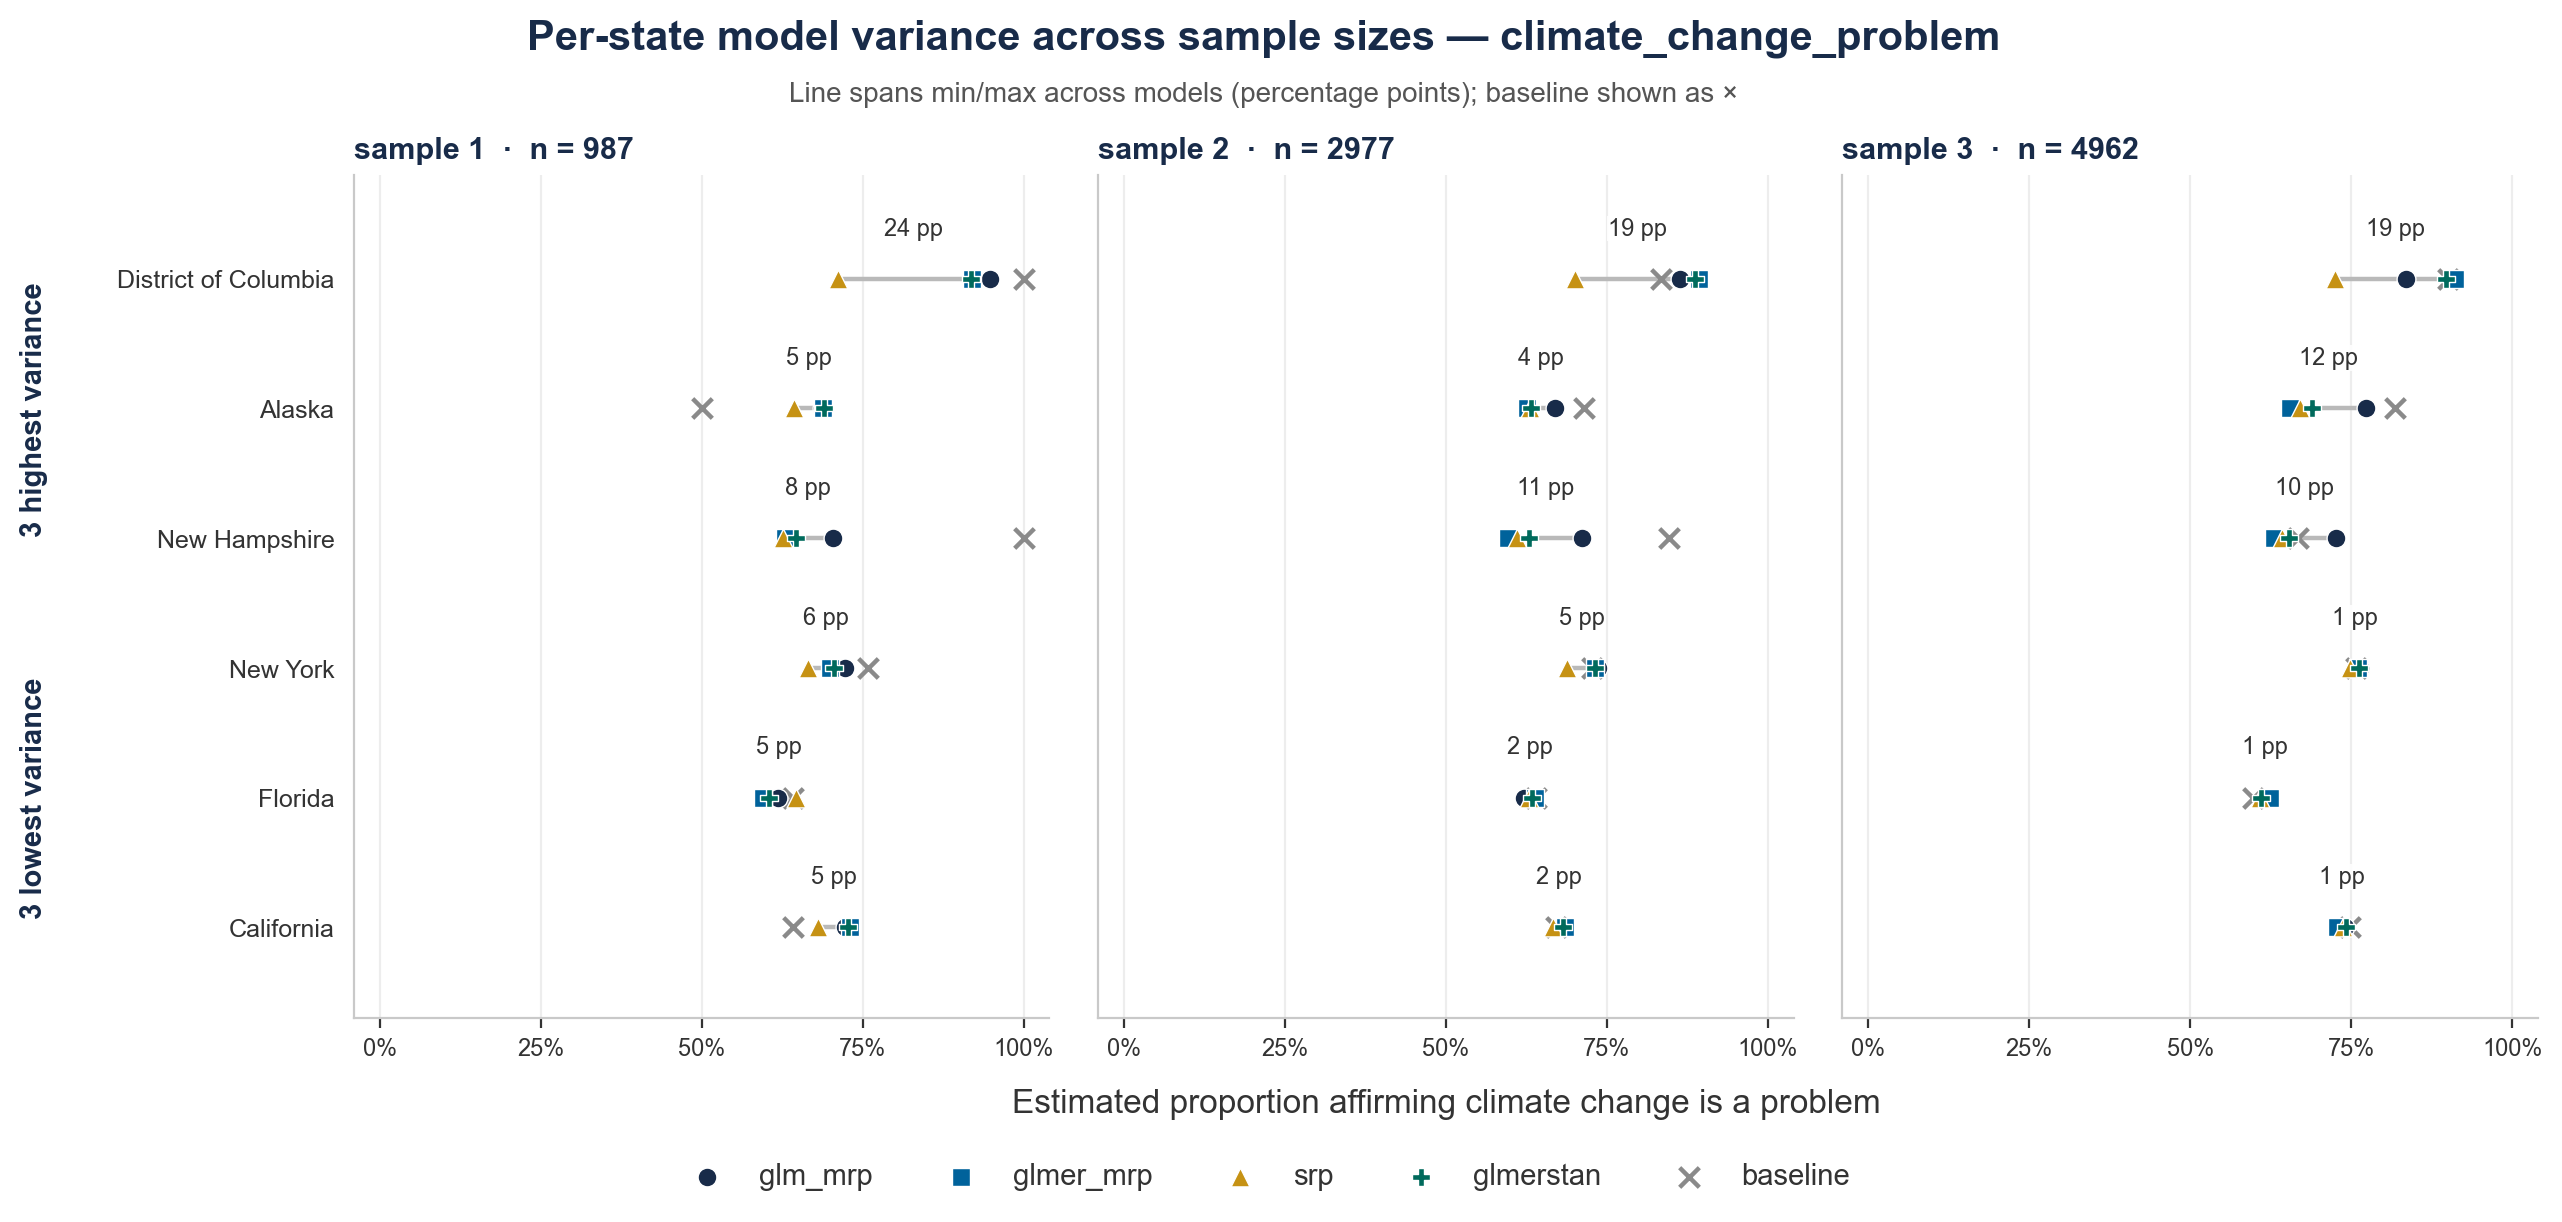
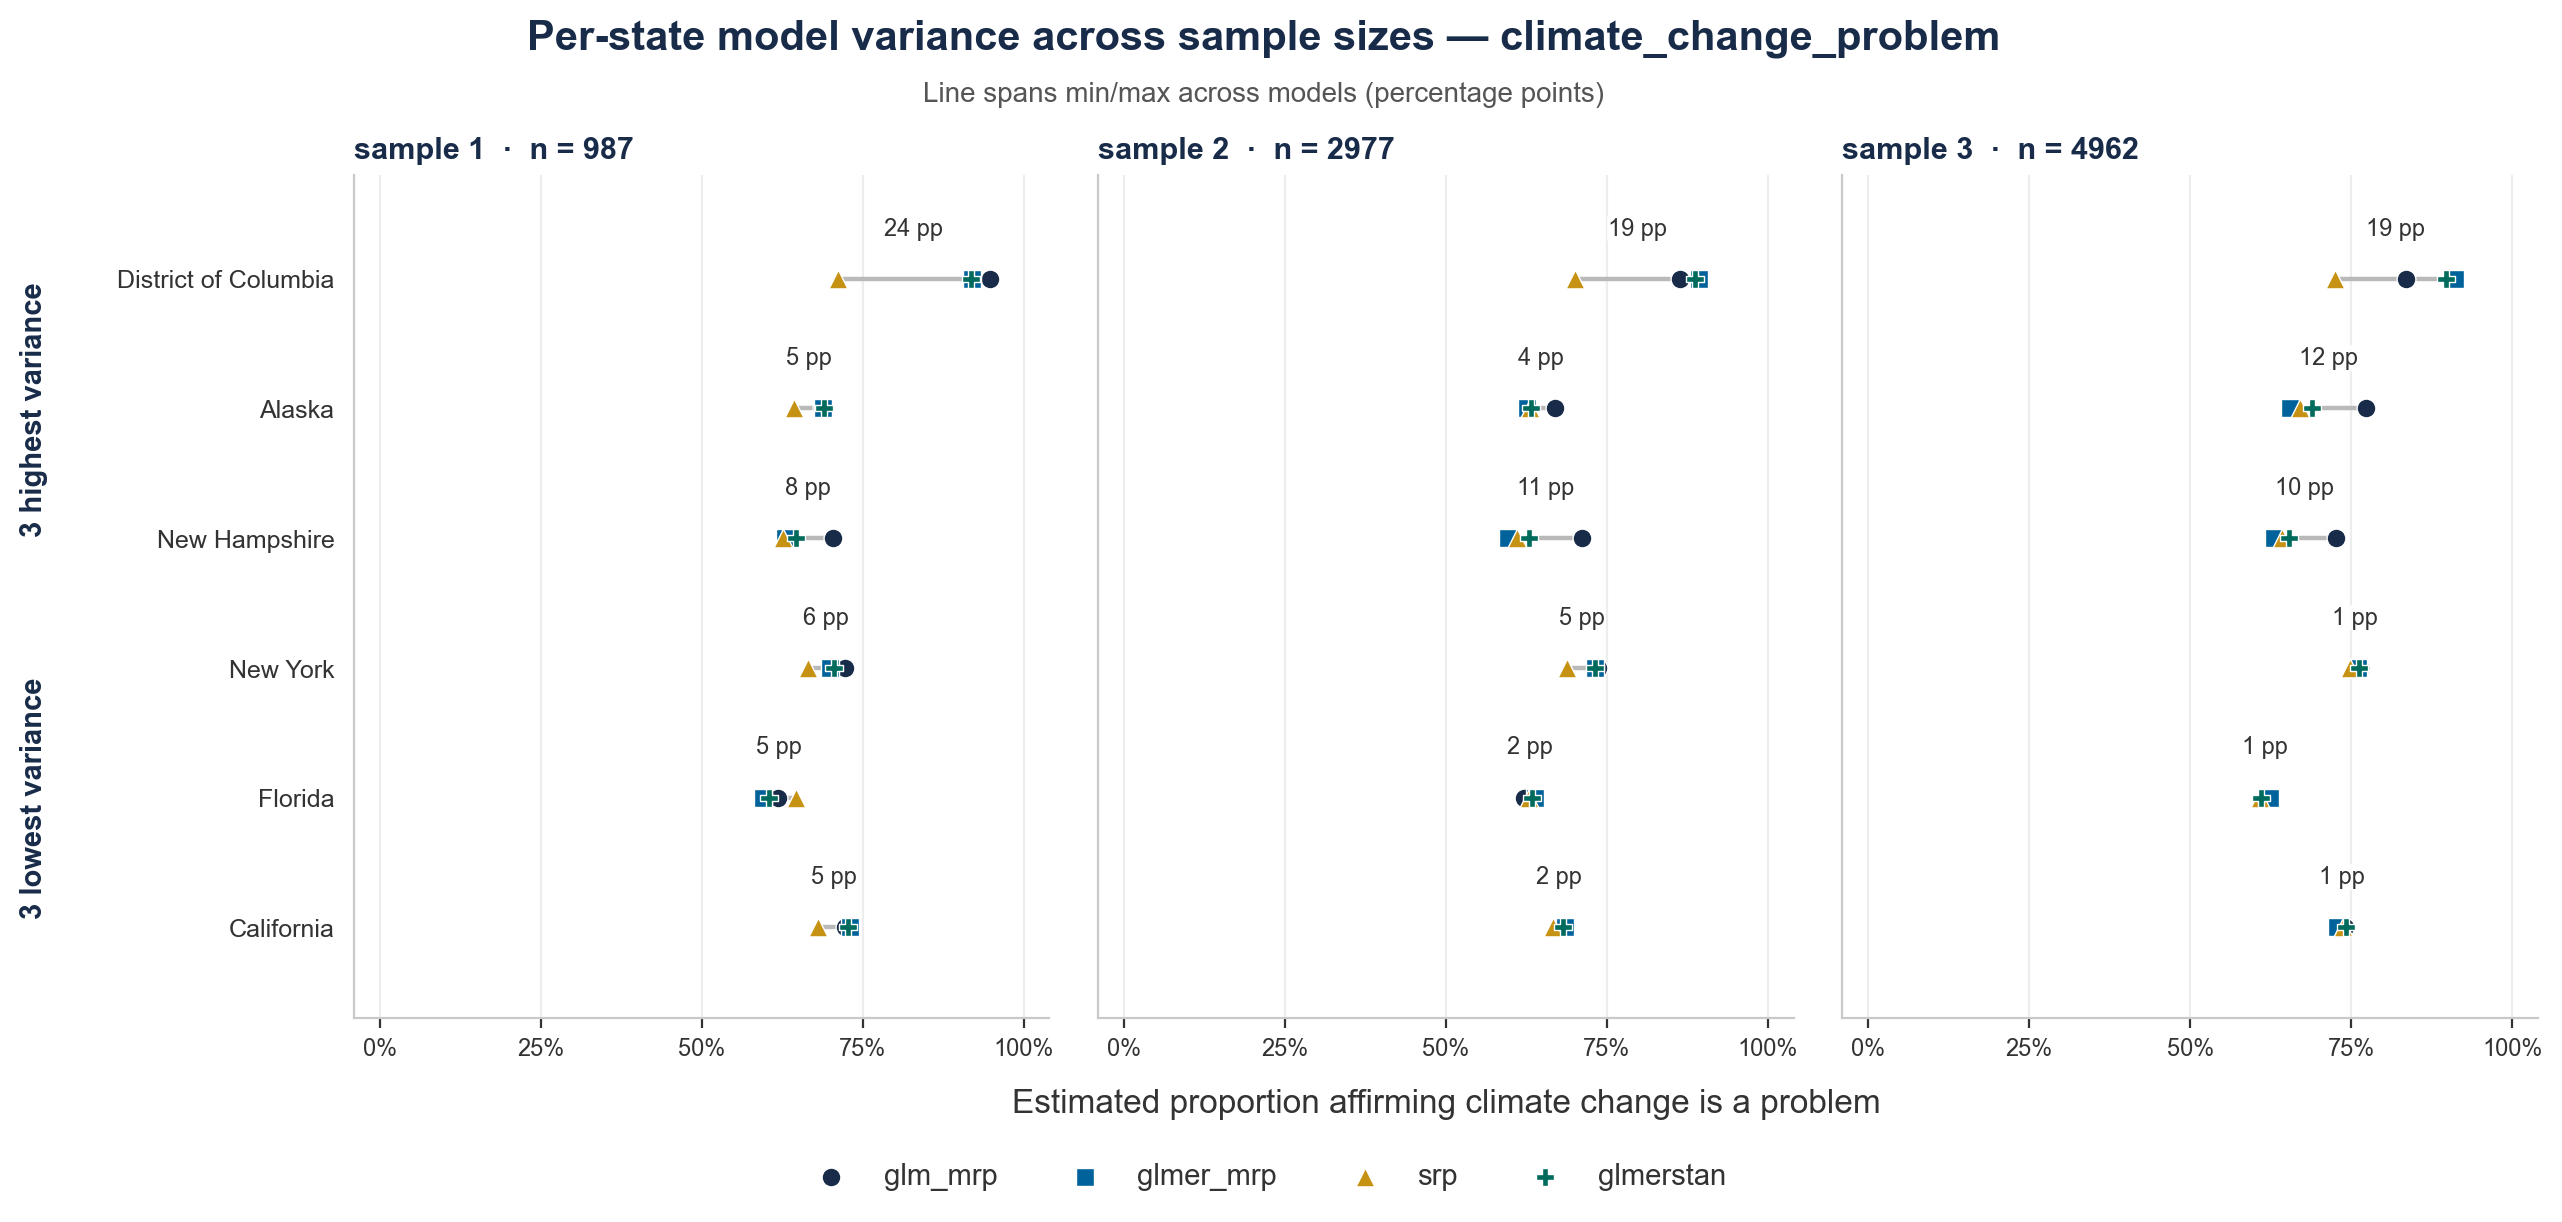
more visuals
all sample comparison

Changed region(s): [[0.3123, 0.0622, 0.687, 0.0933], [0.3123, 0.9329, 0.4996, 0.9951], [0.5621, 0.9329, 0.7182, 0.9951]]

diff --git a/model_run_ces/figures/Figures Using/make_poster_mae_figure.py b/model_run_ces/figures/Figures Using/make_poster_mae_figure.py
@@ -1,0 +1,203 @@
+"""
+Poster figure: mean absolute difference between each sample's per-model state
+estimates and the all-sample benchmark, styled to match the UC San Diego capstone
+poster (variable: climate_change_problem). This is FIG 1 on the poster.
+
+Drops the Naive baseline and MRdeeP panels — keeps the four MRP architectures
+(GLM-MRP, GLMER-MRP, GLMER-Stan, SRP) in a 2x2 grid. Standalone — produces exactly
+one PNG next to this script. Reads estimates from the MAIN project folder via an
+absolute ROOT (never a worktree copy), per the project's data-location guardrail.
+
+Output: mae_vs_all_sample_climate_change_problem.png (this folder)
+"""
+
+from pathlib import Path
+
+import matplotlib.pyplot as plt
+import pandas as pd
+
+# ---------- Absolute paths (main folder, not worktree) ----------
+PROJECT_ROOT = Path("/Users/kaeleyoshea/Capstone/A.MRdeeP-Deep-Learning--MRP")
+MODEL_ROOT = PROJECT_ROOT / "model_run_ces"
+OUT_DIR = MODEL_ROOT / "figures" / "Figures Using"
+OUT_PNG = OUT_DIR / "mae_vs_all_sample_climate_change_problem.png"
+
+SAMPLES = [1, 2, 3]
+OUTCOME = "climate_problem"                  # data-file key (unchanged on disk)
+OUTCOME_TITLE = "climate_change_problem"     # display name in title
+
+# Baseline and MRdeeP intentionally removed for the poster.
+MODELS = ["glm_mrp", "glmer_mrp", "glmerstan", "srp"]
+MODEL_LABELS = {
+    "glm_mrp":   "GLM-MRP",
+    "glmer_mrp": "GLMER-MRP",
+    "glmerstan": "GLMER-Stan",
+    "srp":       "SRP",
+}
+
+# ---------- UC San Diego palette ----------
+UCSD_NAVY = "#182B49"
+UCSD_BLUE = "#00629B"     # California blue
+UCSD_GOLD = "#C69214"     # darker gold for contrast on white
+GRID = "#EDEDED"
+LABEL_GRAY = "#333333"
+MUTED_GRAY = "#8A8A8A"    # worst-performer badge
+
+# Light -> dark sample ramp drawn from the UC San Diego blues.
+SAMPLE_COLORS = ["#A3C7DE", "#00629B", "#182B49"]
+
+plt.rcParams["font.family"] = "Arial"
+plt.rcParams["axes.unicode_minus"] = False
+
+
+def load_benchmark() -> pd.DataFrame:
+    path = MODEL_ROOT / "all_sample" / "outputs" / f"{OUTCOME}_state_estimates.csv"
+    df = pd.read_csv(path, dtype={"state_fips": str})
+    return df[["state_fips", "estimate"]].rename(columns={"estimate": "benchmark"})
+
+
+def load_sample_estimates(sample_num: int) -> tuple[pd.DataFrame, int]:
+    """Build a state x model DataFrame from whichever files exist for this sample."""
+    est_dir = MODEL_ROOT / f"sample{sample_num}_state" / "outputs" / "estimates"
+
+    combined: dict[str, pd.Series] = {}
+    total_n: int | None = None
+
+    agg_path = est_dir / f"{OUTCOME}_state_estimates.csv"
+    if agg_path.exists():
+        agg = pd.read_csv(agg_path, dtype={"state_fips": str}).set_index("state_fips")
+        if "n_respondents" in agg.columns:
+            total_n = int(agg["n_respondents"].sum())
+        for m in MODELS:
+            if m in agg.columns:
+                combined[m] = agg[m]
+
+    for m in MODELS:
+        if m in combined:
+            continue
+        per_path = est_dir / f"{m}_{OUTCOME}_state_estimates.csv"
+        if per_path.exists():
+            per = pd.read_csv(per_path, dtype={"state_fips": str}).set_index("state_fips")
+            if "estimate" in per.columns:
+                combined[m] = per["estimate"]
+                if total_n is None and "n_respondents" in per.columns:
+                    total_n = int(per["n_respondents"].sum())
+
+    est_df = pd.DataFrame(combined)
+    return est_df, (total_n if total_n is not None else 0)
+
+
+def compute_mae_table() -> tuple[pd.DataFrame, dict[int, int]]:
+    """MAE table indexed by model, columns = sample numbers; plus sample -> n total."""
+    bench = load_benchmark().set_index("state_fips")
+    rows = []
+    sample_n: dict[int, int] = {}
+    for s in SAMPLES:
+        est_df, n_total = load_sample_estimates(s)
+        sample_n[s] = n_total
+        joined = est_df.join(bench, how="inner")
+        for m in MODELS:
+            mae = (joined[m] - joined["benchmark"]).abs().mean() if m in joined.columns else float("nan")
+            rows.append({"model": m, "sample": s, "mae": mae})
+    mae_df = pd.DataFrame(rows).pivot(index="model", columns="sample", values="mae").reindex(MODELS)
+    return mae_df, sample_n
+
+
+def draw_panel(ax, mae_pp, model, sample_labels, ymax, badge=None):
+    """Values in `mae_pp` are already in percentage points. `badge` is an optional
+    (text, color) tuple shown in the panel's top-right corner."""
+    ax.set_facecolor("white")
+    values = [mae_pp.loc[model, s] for s in SAMPLES]
+    plot_vals = [0 if pd.isna(v) else v for v in values]
+
+    bars = ax.bar(range(len(SAMPLES)), plot_vals, color=SAMPLE_COLORS,
+                  edgecolor="white", linewidth=0.8, width=0.66, zorder=3)
+
+    for bar, v in zip(bars, values):
+        if pd.isna(v):
+            ax.text(bar.get_x() + bar.get_width() / 2, ymax * 0.02, "n/a",
+                    ha="center", va="bottom", fontsize=9, color="grey", style="italic")
+        else:
+            ax.text(bar.get_x() + bar.get_width() / 2, v + ymax * 0.02, f"{v:.1f} pp",
+                    ha="center", va="bottom", fontsize=10, color=LABEL_GRAY,
+                    fontweight="bold", zorder=5)
+
+    ax.set_title(MODEL_LABELS[model], fontsize=12.5, loc="left",
+                 color=UCSD_NAVY, fontweight="bold", pad=8)
+
+    if badge is not None:
+        text, color = badge
+        ax.text(1.0, 1.02, text, transform=ax.transAxes, ha="right", va="bottom",
+                fontsize=11, fontweight="bold", color=color, zorder=6)
+    ax.set_xticks(range(len(SAMPLES)))
+    ax.set_xticklabels(sample_labels, fontsize=9, color=LABEL_GRAY)
+    ax.set_ylim(0, ymax)
+    for sp in ("top", "right"):
+        ax.spines[sp].set_visible(False)
+    for sp in ("left", "bottom"):
+        ax.spines[sp].set_color("#C9C9C9")
+    ax.tick_params(colors=LABEL_GRAY)
+    ax.grid(axis="y", color=GRID, linewidth=0.8, zorder=0)
+    ax.set_axisbelow(True)
+
+
+def build_figure(mae_df, sample_n):
+    import numpy as np
+
+    # Work in percentage points (proportion x 100) for readability.
+    mae_pp = mae_df * 100
+
+    sample_labels = [f"sample {s}\nn = {sample_n[s]:,}" for s in SAMPLES]
+    finite = mae_pp.values[np.isfinite(mae_pp.values)]
+    ymax = (finite.max() if finite.size else 10) * 1.28
+
+    # Best / worst by mean MAE across the three samples (lower = better).
+    avg = mae_pp.mean(axis=1, skipna=True)
+    best_model = avg.idxmin()
+    worst_model = avg.idxmax()
+    badges = {
+        best_model:  (r"$\bigstar$ Best overall", UCSD_GOLD),
+        worst_model: (r"$\triangle$ Highest difference", MUTED_GRAY),
+    }
+
+    fig, axes = plt.subplots(2, 2, figsize=(11, 9), sharey=True)
+    fig.patch.set_facecolor("white")
+    fig.subplots_adjust(left=0.10, right=0.97, top=0.83, bottom=0.10,
+                        wspace=0.08, hspace=0.32)
+
+    for idx, model in enumerate(MODELS):
+        ax = axes[idx // 2, idx % 2]
+        draw_panel(ax, mae_pp, model, sample_labels, ymax, badge=badges.get(model))
+        if idx % 2 == 0:
+            ax.set_ylabel("Mean |estimate − benchmark|  (pp)", fontsize=11,
+                          color=LABEL_GRAY)
+
+    bench_n = int(pd.read_csv(
+        MODEL_ROOT / "all_sample" / "outputs" / f"{OUTCOME}_state_estimates.csv"
+    )["n_respondents"].sum())
+
+    fig.text(0.5, 0.960,
+             f"Mean absolute difference from the full-sample benchmark — {OUTCOME_TITLE}",
+             ha="center", va="center", fontsize=15, fontweight="bold",
+             color=UCSD_NAVY)
+    fig.text(0.5, 0.925,
+             f"Benchmark = full-sample weighted state estimates (n = {bench_n:,})",
+             ha="center", va="center", fontsize=10.5, color="#555555")
+    fig.text(0.5, 0.900,
+             "Mean |sample estimate − benchmark|, averaged across 51 states (incl. DC)",
+             ha="center", va="center", fontsize=10.5, color="#555555")
+
+    return fig
+
+
+def main():
+    OUT_DIR.mkdir(parents=True, exist_ok=True)
+    mae_df, sample_n = compute_mae_table()
+    fig = build_figure(mae_df, sample_n)
+    fig.savefig(OUT_PNG, dpi=200, bbox_inches="tight", facecolor=fig.get_facecolor())
+    plt.close(fig)
+    print("wrote", OUT_PNG)
+
+
+if __name__ == "__main__":
+    main()

diff --git a/model_run_ces/figures/Figures Using/make_poster_variance_figure.py b/model_run_ces/figures/Figures Using/make_poster_variance_figure.py
@@ -28,7 +28,6 @@ OUTCOME_TITLE = "climate_change_problem"     # display name in title
 N_EXTREME = 3
 
 MODEL_COLS = ["glm_mrp", "glmer_mrp", "srp", "glmerstan"]
-BASELINE_COL = "baseline"
 
 # ---------- UC San Diego palette ----------
 UCSD_NAVY = "#182B49"
@@ -44,7 +43,6 @@ MODEL_STYLE = {
     "srp":       {"marker": "^", "color": UCSD_GOLD},
     "glmerstan": {"marker": "P", "color": UCSD_TEAL},
 }
-BASELINE_STYLE = {"marker": "x", "color": "#8A8A8A"}
 
 X_AXIS_LABEL = "Estimated proportion affirming climate change is a problem"
 
@@ -87,9 +85,6 @@ def draw_panel(ax, df, order, sample_n):
         st = MODEL_STYLE[model]
         ax.scatter(df_ord[model], ys, marker=st["marker"], color=st["color"],
                    s=46, zorder=3, label=model, edgecolor="white", linewidth=0.5)
-    ax.scatter(df_ord[BASELINE_COL], ys, marker=BASELINE_STYLE["marker"],
-               color=BASELINE_STYLE["color"], s=50, zorder=2, label="baseline",
-               linewidth=1.6)
 
     ax.set_xlim(-0.04, 1.04)
     ax.set_xticks([0, .25, .5, .75, 1])
@@ -143,8 +138,7 @@ def build_figure(samples, order):
              ha="center", va="center", fontsize=15, fontweight="bold",
              color=UCSD_NAVY)
     fig.text(0.5, 0.905,
-             "Line spans min/max across models (percentage points); "
-             "baseline shown as ×",
+             "Line spans min/max across models (percentage points)",
              ha="center", va="center", fontsize=10, fontweight="normal",
              color="#555555")
 
